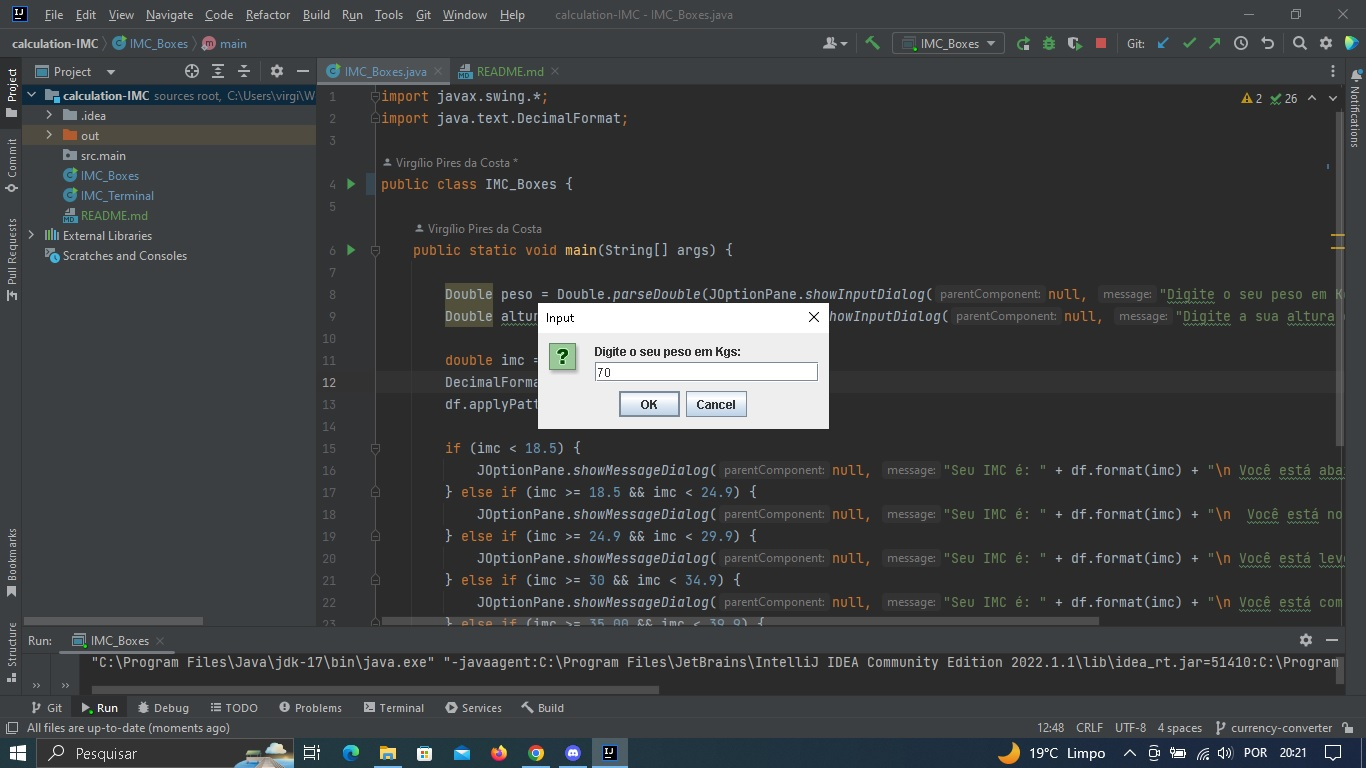
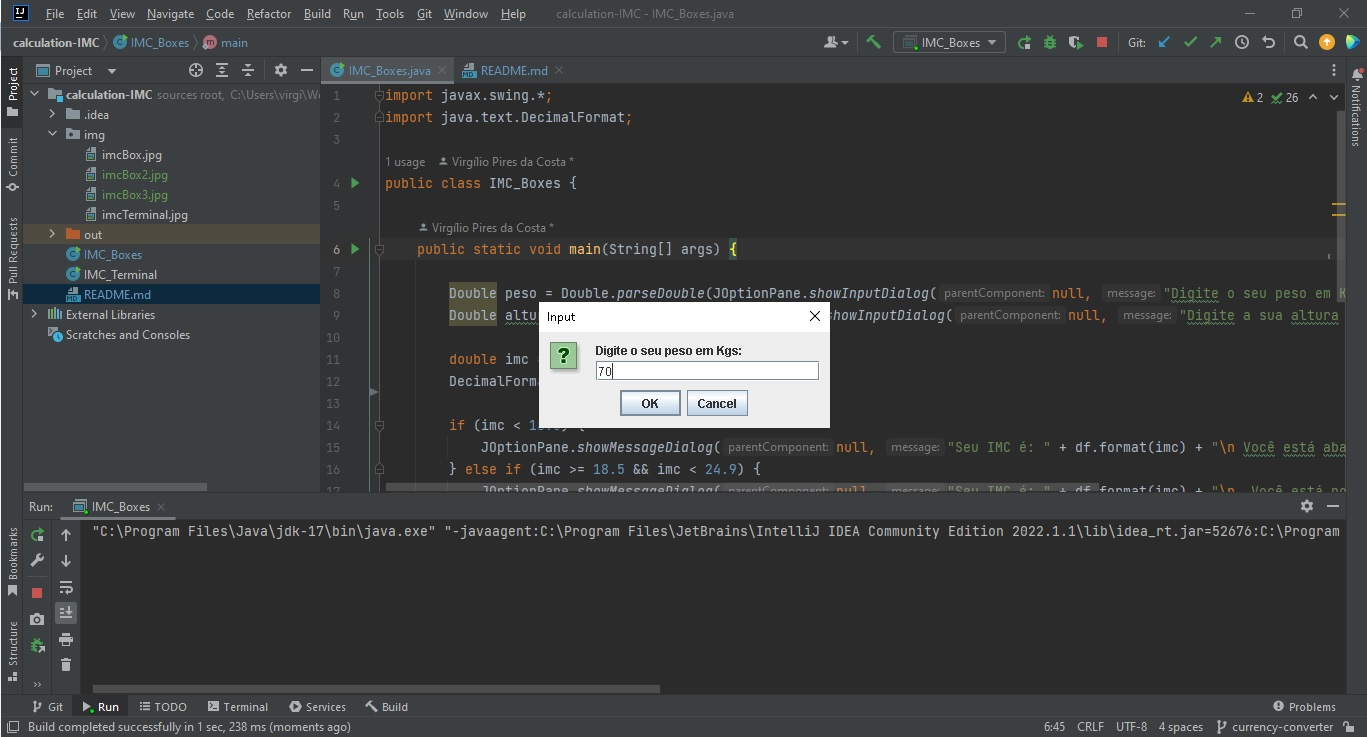
"update project e add img"

diff --git a/IMC_Boxes.java b/IMC_Boxes.java
@@ -10,7 +10,6 @@ public class IMC_Boxes {
 
         double imc = peso / (Math.pow(altura, 2));
         DecimalFormat df = new DecimalFormat();
-        df.applyPattern("##.00");
 
         if (imc < 18.5) {
             JOptionPane.showMessageDialog(null, "Seu IMC é: " + df.format(imc) + "\n Você está abaixo do peso ideal.");

diff --git a/out/production/calculation-IMC/README.md b/out/production/calculation-IMC/README.md
@@ -1,34 +1,26 @@
 <p align="center">
-    <img src="./assets/img/one-education.png" max-width="800">
+    <img src="./img/imcTerminal.jpg" max-width="400">
+    <img src="./img/imcBox1.jpg" max-width="400">
+    <img src="./img/imcBox2.jpg" max-width="400">
+    <img src="./img/imcBox3.jpg" max-width="400">
 </p>
+
 # Cálculo de IMC 💇
 
 ## :information_source: Sobre
 
-Esse foi um projeto desenvolvido durante a formação para iniciante em programação do programa da One Oracle Education + Alura!
-O site contém as páginas de: <strong>home</strong>, <strong>produtos</strong> e <strong>contato</strong>.
+Esse foi um projeto desenvolvido durante a mentoria Conquiste a Sua Vaga!
 
-## :seedling: A página <strong>home</strong> possui:
+## :seedling: O projeto <strong>Cálculo IMC</strong> possui:
 <ul>
-  <li>Informações sobre a Barbearia Alura;</li>
-  <li>A localização do estabelecimento;</li>
-  <li>E os seus Benefícios.</li>
+  <li>Campos para preenchimento de peso e altura no terminal na sua versão IMC_Terminal;</li>
+  <li>E caixas para inserir informações de peso e altura na sua versão IMC_Boxes;</li>  
 </ul>
 
-## :seedling: A página de <strong>produtos</strong> possui:
+## :seedling: O resultado <strong>do cálculo</strong> apresenta:
 <ul>
-  <li>Informações sobre os produtos;</li>
-  <li>A descrição sobre os produtos;</li>
-  <li>Preço sobre os produtos.</li>
-</ul>
-
-## :seedling: Já a última página de <strong>Contatos</strong> possui:
-<ul>
-  <li>O formulário de contato;</li>
-  <li>A preferência da forma de contato;</li>
-  <li>O horário preferido para contato</li>
-  <li>E a opção por receber as novidades</li>
-  <li>Tabela de horários de funcionamento.</li>
+  <li>Informações sobre o IMC conforme OMS;</li>
+  <li>Alertando ao usuário sobre os graus de obesidade;</li>  
 </ul>
 
 ## :seedling: Requisitos Mínimos
@@ -39,7 +31,7 @@ Vontade de aprender.
 
 O projeto foi desenvolvido utilizando as seguintes tecnologias
 
-- HTML e CSS.
+- Java.
 
 
 ## 🚀 Let's code! 🚀

diff --git a/README.md b/README.md
@@ -1,6 +1,8 @@
 <p align="center">
     <img src="./img/imcTerminal.jpg" max-width="400">
     <img src="./img/imcBox.jpg" max-width="400">
+    <img src="./img/imcBox2.jpg" max-width="400">
+    <img src="./img/imcBox3.jpg" max-width="400">
 </p>
 
 # Cálculo de IMC 💇
